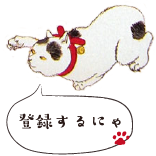
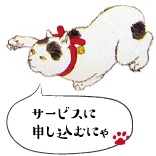
変更し忘れ

Changed region(s): [[0.1282, 0.6667, 0.7179, 0.8974], [0.7179, 0.7436, 0.7949, 0.8462]]

diff --git a/wp-content/themes/sibire/partials/registration.php b/wp-content/themes/sibire/partials/registration.php
@@ -1,6 +1,6 @@
 <div class="partials-registration-wrap">
-  <a class="partials-registration" href="/registration">登録する</a>
+  <a class="partials-registration" href="/registration">サービスに申し込む</a>
   <p>
-    sibireに登録すると、<br />エンジニアの皆さんが希望するエリアやスキルに合わせた企業を紹介します
+    脱・東京したいエンジニアの転職を支援
   </p>
 </div>
